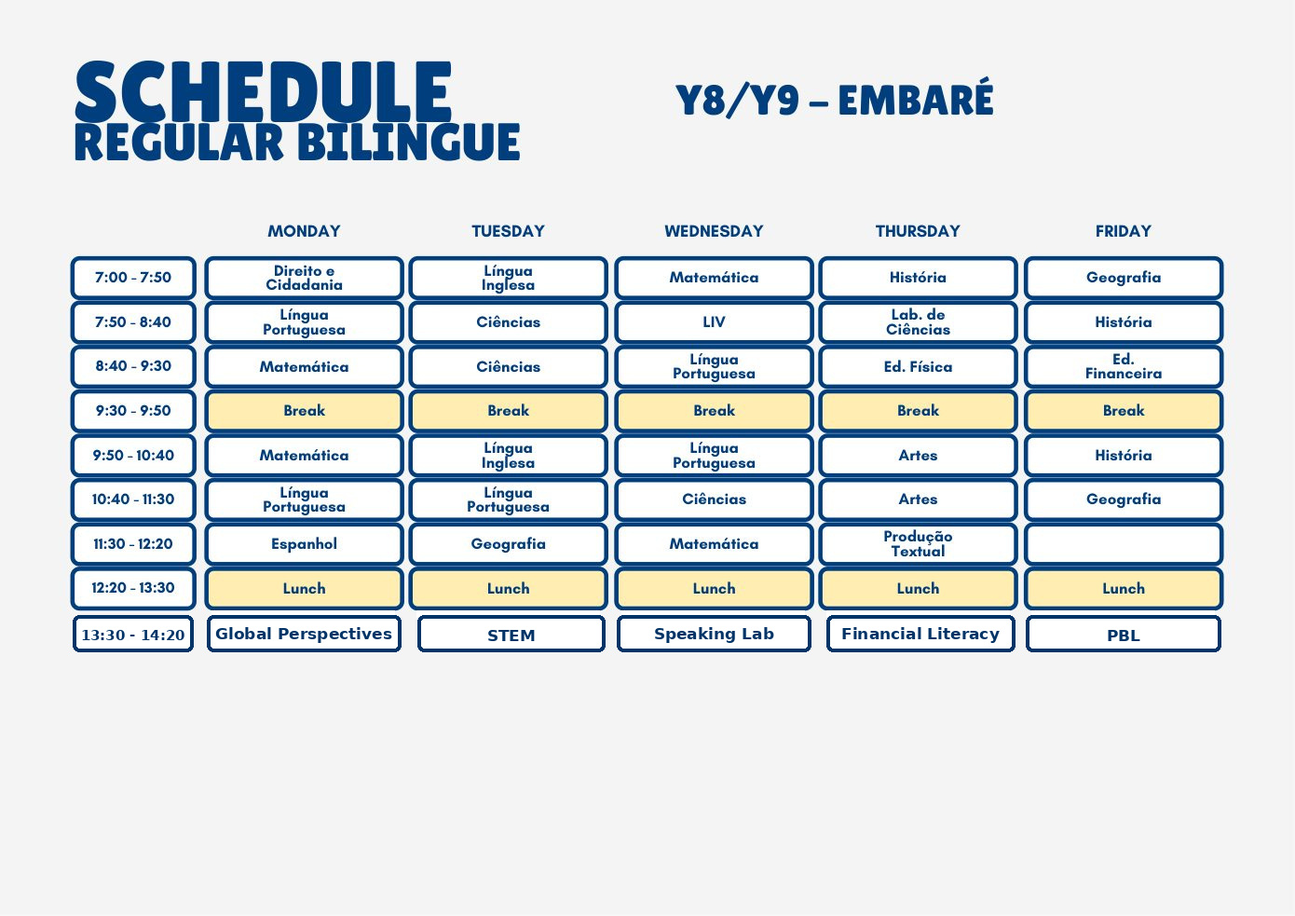
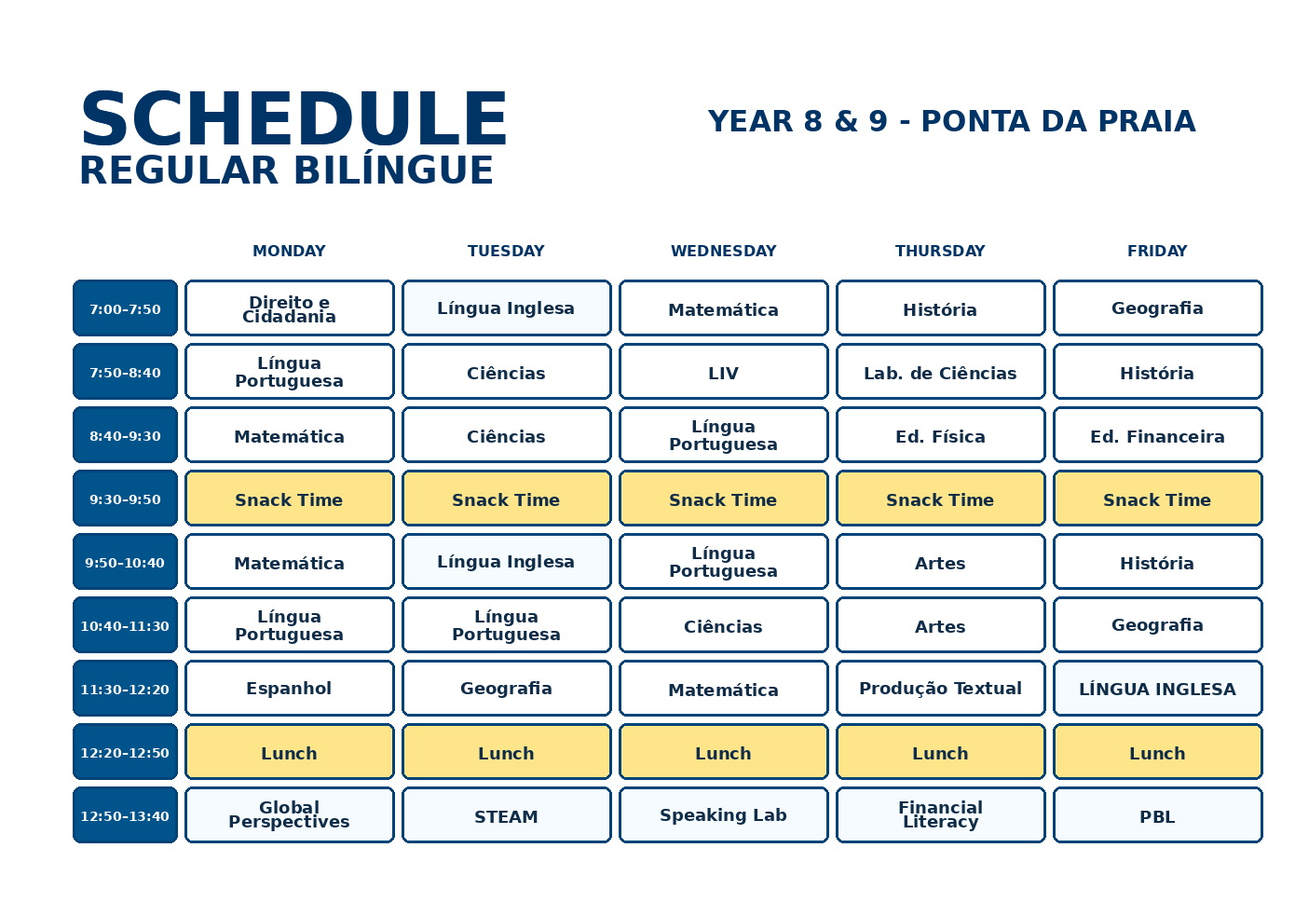
Atualiza miniaturas de grades do Embaré com base Ponta da Praia

diff --git a/embare-grades.html b/embare-grades.html
@@ -1,4 +1,5 @@
 <!DOCTYPE html>
+
 <html lang="pt-BR"><head><meta charset="utf-8"/><meta content="width=device-width, initial-scale=1" name="viewport"/><meta content="noindex,nofollow" name="robots"/><title>Grades Horárias Embaré · Portal</title><!-- versão 20260624-embare-grades-atualizadas-v2 --><link href="https://fonts.googleapis.com" rel="preconnect"/><link crossorigin="" href="https://fonts.gstatic.com" rel="preconnect"/><link href="https://fonts.googleapis.com/css2?family=Lexend:wght@300;400;500;600;700;800&amp;display=swap" rel="stylesheet"/><style>
 :root{--navy:#003366;--blue:#2ea3f2;--orange:#ff6900;--green:#0a5629;--ink:#26343b;--muted:#64717a;--line:#dfe9ef;--bg:#f4f7f8;--shadow:0 18px 50px rgba(0,51,102,.13)}*{box-sizing:border-box}html{scroll-behavior:smooth}body{margin:0;font-family:Lexend,Arial,sans-serif;background:var(--bg);color:var(--ink);line-height:1.55}a{color:var(--blue)}.wrap{max-width:1180px;margin:auto;padding:0 22px}.top{position:sticky;top:0;z-index:20;background:rgba(255,255,255,.92);backdrop-filter:blur(14px);border-bottom:1px solid var(--line)}.top .wrap{display:flex;justify-content:space-between;gap:12px;align-items:center;padding-top:11px;padding-bottom:11px}.brand{font-weight:900;color:var(--navy)}.actions{display:flex;gap:8px;flex-wrap:wrap}.btn{text-decoration:none;border:1px solid var(--line);background:white;color:var(--navy);border-radius:999px;padding:9px 13px;font-weight:900}.btn.primary{background:var(--orange);border-color:var(--orange);color:#fff}.hero{background:radial-gradient(circle at 74% 9%,rgba(64,174,103,.28),transparent 28%),linear-gradient(135deg,var(--navy),var(--green));color:white;padding:38px 0 24px}.eyebrow{font-size:12px;letter-spacing:.12em;text-transform:uppercase;font-weight:900;opacity:.82}h1{font-size:clamp(30px,4vw,48px);line-height:1.04;margin:8px 0}.hero p{max-width:720px;color:#edf7ff;font-size:15px}main{padding:18px 0 54px}.panel{background:white;border:1px solid var(--line);border-radius:28px;padding:24px;box-shadow:var(--shadow);margin-bottom:24px}.panel h2{color:var(--navy);font-size:30px;margin:4px 0 6px}.panel p{color:var(--muted);margin:0}.indexGrid{display:grid;grid-template-columns:repeat(auto-fit,minmax(260px,1fr));gap:14px;margin-top:18px}.indexCard{position:relative;overflow:hidden;display:block;text-decoration:none;background:#fff;border:1px solid var(--line);border-radius:24px;padding:20px;min-height:178px;box-shadow:0 10px 28px rgba(0,51,102,.08);transition:.18s ease transform,.18s ease box-shadow,.18s ease border-color}.indexCard:after{content:'';position:absolute;right:-34px;top:-34px;width:104px;height:104px;border-radius:999px;background:linear-gradient(135deg,rgba(46,163,242,.12),rgba(64,174,103,.14))}.indexCard:hover{transform:translateY(-3px);box-shadow:0 16px 34px rgba(0,51,102,.13);border-color:color-mix(in srgb,var(--accent) 40%,var(--line))}.cardEmoji{position:relative;z-index:1;width:52px;height:52px;display:flex;align-items:center;justify-content:center;border-radius:17px;background:linear-gradient(135deg,#eef8f1,#eaf4ff);font-size:28px;margin-bottom:14px;box-shadow:0 8px 20px rgba(0,51,102,.08)}.indexCard strong{position:relative;z-index:1;display:block;color:var(--navy);font-size:20px;margin-bottom:8px}.indexCard span:not(.cardEmoji){position:relative;z-index:1;display:block;color:var(--muted);font-size:14px}.indexCard em{position:relative;z-index:1;display:inline-flex;margin-top:12px;color:var(--accent);font-style:normal;font-weight:900;font-size:12px;text-transform:uppercase;letter-spacing:.06em}.segment{margin:34px 0 48px;scroll-margin-top:86px}.segmentHead{display:flex;gap:16px;align-items:flex-start;background:#fff;border:1px solid var(--line);border-radius:28px;padding:22px;box-shadow:var(--shadow);margin-bottom:18px}.segIcon{width:56px;height:56px;display:flex;align-items:center;justify-content:center;border-radius:18px;background:linear-gradient(135deg,#eef8f1,#eaf4ff);font-size:30px;box-shadow:0 8px 20px rgba(0,51,102,.08)}.segmentHead h2{margin:4px 0;color:var(--navy);font-size:28px}.segmentHead p{margin:0;color:var(--muted)}.segmentHead a{margin-left:auto;white-space:nowrap;text-decoration:none;font-weight:900;border:1px solid var(--line);border-radius:999px;padding:8px 12px;background:#f8fbff}.gradeSubhead{margin:18px 0 12px;color:var(--navy);font-size:20px;line-height:1.25}.gradeGrid{display:grid;grid-template-columns:repeat(auto-fit,minmax(330px,1fr));gap:18px}.gradeCard{background:#fff;border:1px solid var(--line);border-radius:24px;overflow:hidden;box-shadow:0 10px 28px rgba(0,51,102,.08);border-top:7px solid var(--accent)}.gradeInfo{padding:17px 18px 14px}.gradeInfo span{color:var(--accent);font-weight:900;text-transform:uppercase;font-size:12px;letter-spacing:.08em}.gradeInfo h3{margin:6px 0 4px;color:var(--navy);font-size:16px;line-height:1.25}.gradeInfo p{margin:0;color:var(--muted);font-size:13px}.gradeImageLink{display:block;background:#eef3f6;padding:10px;border-top:1px solid var(--line)}.gradeImageLink img{display:block;width:100%;height:auto;border-radius:14px;border:1px solid #d8e2e8;background:white}@media(max-width:760px){.top .wrap,.segmentHead{display:block}.actions{margin-top:8px}.hero{padding:34px 0 24px}.panel,.segmentHead{border-radius:22px;padding:18px}.segmentHead a{display:inline-flex;margin:14px 0 0}.gradeGrid{grid-template-columns:1fr}.indexGrid{grid-template-columns:1fr}}
-.gradeInfo{display:none!important}.gradeCard{border-top:0!important;padding:0!important;background:#fff!important}.gradeImageLink{border-top:0!important;padding:8px!important;background:#fff!important}.gradeImageLink img{border-radius:18px!important}.segment{margin:26px 0 34px!important}.segmentHead{margin-bottom:12px!important;padding:18px!important}.panel{margin-bottom:18px!important}.indexCard{min-height:132px!important;padding:16px!important}.cardEmoji{width:44px!important;height:44px!important;margin-bottom:10px!important}.indexCard strong{font-size:18px!important}.indexCard span:not(.cardEmoji){font-size:13px!important}.top{display:none!important}.hero{display:none!important}.topicBar{top:0!important}.segment{scroll-margin-top:24px!important}.contentCard{scroll-margin-top:24px!important}main{padding-top:18px!important}</style></head><body><header class="top"><div class="wrap"><div class="brand">GSP · Projeto Bilíngue 2027</div><div class="actions"><a class="btn" href="index.html#embare">Voltar ao portal</a></div></div></header><section class="hero"><div class="wrap"><span class="eyebrow">Portal Embaré</span><h1>Grades horárias</h1><p>Consulte por segmento. Clique para ampliar.</p></div></section><main class="wrap"><section class="panel" id="indice"><span class="eyebrow">Índice rápido</span><h2>Segmentos</h2><p>Escolha uma seção para consultar.</p><div class="indexGrid"><a class="indexCard" href="#infantil" style="--accent:#003366"><span class="cardEmoji">🌱</span><strong>Educação Infantil</strong><span>12 página(s)</span><em>Ver</em></a><a class="indexCard" href="#fund1" style="--accent:#2ea3f2"><span class="cardEmoji">📘</span><strong>Fundamental I — Year 1 ao Year 5 / 1º ao 5º ano</strong><span>3 página(s)</span><em>Ver</em></a><a class="indexCard" href="#fund2" style="--accent:#0a5629"><span class="cardEmoji">🧭</span><strong>Fundamental II — Year 6 ao Year 9 / 6º ao 9º ano</strong><span>6 página(s)</span><em>Ver</em></a></div></section><section class="segment" id="infantil"><div class="segmentHead"><div class="segIcon">🌱</div><div><span class="eyebrow">Embaré</span><h2>Educação Infantil</h2><p>Miniaturas das páginas da grade da Educação Infantil.</p></div><a href="#indice">Voltar ao índice</a></div><div class="gradeGrid"><article class="gradeCard" style="--accent:#003366"><div class="gradeInfo"><span>Página 1 · Grades horárias</span><h3>INTEGRAL BILÍNGUE</h3><p>Clique para ampliar.</p></div><a class="gradeImageLink" href="assets/embare-grades/embare-grade-p01.jpg?v=20260624-embare-grades-atualizadas-v2" rel="noopener" target="_blank"><img alt="Grade Embaré — INTEGRAL BILÍNGUE" loading="eager" src="assets/embare-grades/embare-grade-p01.jpg?v=20260624-embare-grades-atualizadas-v2"/></a></article><article class="gradeCard" style="--accent:#2ea3f2"><div class="gradeInfo"><span>Página 2 · Grades horárias</span><h3>SEMI-INTEGRAL BILÍNGUE</h3><p>Clique para ampliar.</p></div><a class="gradeImageLink" href="assets/embare-grades/embare-grade-p02.jpg?v=20260624-embare-grades-atualizadas-v2" rel="noopener" target="_blank"><img alt="Grade Embaré — SEMI-INTEGRAL BILÍNGUE" loading="eager" src="assets/embare-grades/embare-grade-p02.jpg?v=20260624-embare-grades-atualizadas-v2"/></a></article><article class="gradeCard" style="--accent:#0a5629"><div class="gradeInfo"><span>Página 3 · Grades horárias</span><h3>REGULAR BILÍNGUE</h3><p>Clique para ampliar.</p></div><a class="gradeImageLink" href="assets/embare-grades/embare-grade-p03.jpg?v=20260624-embare-grades-atualizadas-v2" rel="noopener" target="_blank"><img alt="Grade Embaré — REGULAR BILÍNGUE" loading="eager" src="assets/embare-grades/embare-grade-p03.jpg?v=20260624-embare-grades-atualizadas-v2"/></a></article><article class="gradeCard" style="--accent:#40ae67"><div class="gradeInfo"><span>Página 4 · Grades horárias</span><h3>INTEGRAL BILÍNGUE</h3><p>Clique para ampliar.</p></div><a class="gradeImageLink" href="assets/embare-grades/embare-grade-p04.jpg?v=20260624-embare-grades-atualizadas-v2" rel="noopener" target="_blank"><img alt="Grade Embaré — INTEGRAL BILÍNGUE" loading="eager" src="assets/embare-grades/embare-grade-p04.jpg?v=20260624-embare-grades-atualizadas-v2"/></a></article><article class="gradeCard" style="--accent:#ff6900"><div class="gradeInfo"><span>Página 5 · Grades horárias</span><h3>SEMI-INTEGRAL BILÍNGUE</h3><p>Clique para ampliar.</p></div><a class="gradeImageLink" href="assets/embare-grades/embare-grade-p05.jpg?v=20260624-embare-grades-atualizadas-v2" rel="noopener" target="_blank"><img alt="Grade Embaré — SEMI-INTEGRAL BILÍNGUE" loading="eager" src="assets/embare-grades/embare-grade-p05.jpg?v=20260624-embare-grades-atualizadas-v2"/></a></article><article class="gradeCard" style="--accent:#8a4fff"><div class="gradeInfo"><span>Página 6 · Grades horárias</span><h3>REGULAR BILÍNGUE</h3><p>Clique para ampliar.</p></div><a class="gradeImageLink" href="assets/embare-grades/embare-grade-p06.jpg?v=20260624-embare-grades-atualizadas-v2" rel="noopener" target="_blank"><img alt="Grade Embaré — REGULAR BILÍNGUE" loading="eager" src="assets/embare-grades/embare-grade-p06.jpg?v=20260624-embare-grades-atualizadas-v2"/></a></article><article class="gradeCard" style="--accent:#cc3d6b"><div class="gradeInfo"><span>Página 7 · Grades horárias</span><h3>INTEGRAL BILÍNGUE</h3><p>Clique para ampliar.</p></div><a class="gradeImageLink" href="assets/embare-grades/embare-grade-p07.jpg?v=20260624-embare-grades-atualizadas-v2" rel="noopener" target="_blank"><img alt="Grade Embaré — INTEGRAL BILÍNGUE" loading="eager" src="assets/embare-grades/embare-grade-p07.jpg?v=20260624-embare-grades-atualizadas-v2"/></a></article><article class="gradeCard" style="--accent:#1b7f83"><div class="gradeInfo"><span>Página 8 · Grades horárias</span><h3>SEMI-INTEGRAL BILÍNGUE</h3><p>Clique para ampliar.</p></div><a class="gradeImageLink" href="assets/embare-grades/embare-grade-p08.jpg?v=20260624-embare-grades-atualizadas-v2" rel="noopener" target="_blank"><img alt="Grade Embaré — SEMI-INTEGRAL BILÍNGUE" loading="eager" src="assets/embare-grades/embare-grade-p08.jpg?v=20260624-embare-grades-atualizadas-v2"/></a></article><article class="gradeCard" style="--accent:#b36b00"><div class="gradeInfo"><span>Página 9 · Grades horárias</span><h3>REGULAR BILÍNGUE</h3><p>Clique para ampliar.</p></div><a class="gradeImageLink" href="assets/embare-grades/embare-grade-p09.jpg?v=20260624-embare-grades-atualizadas-v2" rel="noopener" target="_blank"><img alt="Grade Embaré — REGULAR BILÍNGUE" loading="eager" src="assets/embare-grades/embare-grade-p09.jpg?v=20260624-embare-grades-atualizadas-v2"/></a></article><article class="gradeCard" style="--accent:#003366"><div class="gradeInfo"><span>Página 10 · Grades horárias</span><h3>INTEGRAL BILÍNGUE</h3><p>Clique para ampliar.</p></div><a class="gradeImageLink" href="assets/embare-grades/embare-grade-p10.jpg?v=20260624-embare-grades-atualizadas-v2" rel="noopener" target="_blank"><img alt="Grade Embaré — INTEGRAL BILÍNGUE" loading="eager" src="assets/embare-grades/embare-grade-p10.jpg?v=20260624-embare-grades-atualizadas-v2"/></a></article><article class="gradeCard" style="--accent:#2ea3f2"><div class="gradeInfo"><span>Página 11 · Grades horárias</span><h3>SEMI-INTEGRAL BILÍNGUE</h3><p>Clique para ampliar.</p></div><a class="gradeImageLink" href="assets/embare-grades/embare-grade-p11.jpg?v=20260624-embare-grades-atualizadas-v2" rel="noopener" target="_blank"><img alt="Grade Embaré — SEMI-INTEGRAL BILÍNGUE" loading="eager" src="assets/embare-grades/embare-grade-p11.jpg?v=20260624-embare-grades-atualizadas-v2"/></a></article><article class="gradeCard" style="--accent:#0a5629"><div class="gradeInfo"><span>Página 12 · Grades horárias</span><h3>REGULAR BILÍNGUE</h3><p>Clique para ampliar.</p></div><a class="gradeImageLink" href="assets/embare-grades/embare-grade-p12.jpg?v=20260624-embare-grades-atualizadas-v2" rel="noopener" target="_blank"><img alt="Grade Embaré — REGULAR BILÍNGUE" loading="eager" src="assets/embare-grades/embare-grade-p12.jpg?v=20260624-embare-grades-atualizadas-v2"/></a></article></div></section><section class="segment" id="fund1"><div class="segmentHead"><div class="segIcon">📘</div><div><span class="eyebrow">Embaré</span><h2>Fundamental I — Year 1 ao Year 5 / 1º ao 5º ano</h2><p>Miniaturas das páginas da grade do Fundamental I.</p></div><a href="#indice">Voltar ao índice</a></div><div class="gradeGrid"><article class="gradeCard" style="--accent:#2ea3f2"><div class="gradeInfo"><span>Página 13 · Grades horárias</span><h3>INTEGRAL BILÍNGUE</h3><p>Clique para ampliar.</p></div><a class="gradeImageLink" href="assets/embare-grades/embare-grade-p13.jpg?v=20260624-embare-grades-atualizadas-v2" rel="noopener" target="_blank"><img alt="Grade Embaré — Fundamental I — Year 1 ao Year 5 / 1º ao 5º ano — Página 13" loading="eager" src="assets/embare-grades/embare-grade-p13.jpg?v=20260624-embare-grades-atualizadas-v2"/></a></article><article class="gradeCard" style="--accent:#0a5629"><div class="gradeInfo"><span>Página 14 · Grades horárias</span><h3>REGULAR BILÍNGUE</h3><p>Clique para ampliar.</p></div><a class="gradeImageLink" href="assets/embare-grades/embare-grade-p14.jpg?v=20260624-embare-grades-atualizadas-v2" rel="noopener" target="_blank"><img alt="Grade Embaré — Fundamental I — Year 1 ao Year 5 / 1º ao 5º ano — Página 14" loading="eager" src="assets/embare-grades/embare-grade-p14.jpg?v=20260624-embare-grades-atualizadas-v2"/></a></article><article class="gradeCard" style="--accent:#40ae67"><div class="gradeInfo"><span>Página 15 · Grades horárias</span><h3>REGULAR</h3><p>Clique para ampliar.</p></div><a class="gradeImageLink" href="assets/embare-grades/embare-grade-p15.jpg?v=20260624-embare-grades-atualizadas-v2" rel="noopener" target="_blank"><img alt="Grade Embaré — Fundamental I — Year 1 ao Year 5 / 1º ao 5º ano — Página 15" loading="eager" src="assets/embare-grades/embare-grade-p15.jpg?v=20260624-embare-grades-atualizadas-v2"/></a></article></div></section><section class="segment" id="fund2"><div class="segmentHead"><div class="segIcon">🧭</div><div><span class="eyebrow">Embaré</span><h2>Fundamental II — Year 6 ao Year 9 / 6º ao 9º ano</h2><p>Miniaturas das páginas da grade do Fundamental II, organizadas por faixa de anos.</p></div><a href="#indice">Voltar ao índice</a></div><h3 class="gradeSubhead">Year 6 e Year 7 / 6º e 7º ano</h3><div class="gradeGrid"><article class="gradeCard" style="--accent:#ff6900"><div class="gradeInfo"><span>Página 16 · Grades horárias</span><h3>INTEGRAL BILÍNGUE</h3><p>Clique para ampliar.</p></div><a class="gradeImageLink" href="assets/embare-grades/embare-grade-p16.jpg?v=20260724-embare-f2-v1" rel="noopener" target="_blank"><img alt="Grade Embaré — Fundamental II — Year 6 e Year 7 / 6º e 7º ano — Página 16" loading="eager" src="assets/embare-grades/embare-grade-p16.jpg?v=20260724-embare-f2-v1"/></a></article><article class="gradeCard" style="--accent:#8a4fff"><div class="gradeInfo"><span>Página 17 · Grades horárias</span><h3>REGULAR BILÍNGUE</h3><p>Clique para ampliar.</p></div><a class="gradeImageLink" href="assets/embare-grades/embare-grade-p17.jpg?v=20260725-embare-f2-caixas-ultima-aula" rel="noopener" target="_blank"><img alt="Grade Embaré — Fundamental II — Year 6 e Year 7 / 6º e 7º ano — Página 17" loading="eager" src="assets/embare-grades/embare-grade-p17.jpg?v=20260725-embare-f2-caixas-ultima-aula"/></a></article><article class="gradeCard" style="--accent:#cc3d6b"><div class="gradeInfo"><span>Página 18 · Grades horárias</span><h3>REGULAR</h3><p>Clique para ampliar.</p></div><a class="gradeImageLink" href="assets/embare-grades/embare-grade-p18.jpg?v=20260624-embare-grades-atualizadas-v2" rel="noopener" target="_blank"><img alt="Grade Embaré — Fundamental II — Year 6 e Year 7 / 6º e 7º ano — Página 18" loading="eager" src="assets/embare-grades/embare-grade-p18.jpg?v=20260624-embare-grades-atualizadas-v2"/></a></article></div><h3 class="gradeSubhead">Year 8 e Year 9 / 8º e 9º ano</h3><div class="gradeGrid"><article class="gradeCard" style="--accent:#0a5629"><div class="gradeInfo"><span>Página 19 · Grades horárias</span><h3>HIGH SCHOOL PREP</h3><p>Clique para ampliar.</p></div><a class="gradeImageLink" href="assets/embare-grades/embare-grade-p19-high-school-prep-20260727.jpg?v=1" rel="noopener" target="_blank"><img alt="Grade Embaré — Fundamental II — Year 8 e Year 9 / 8º e 9º ano — Página 19" loading="eager" src="assets/embare-grades/embare-grade-p19-high-school-prep-20260727.jpg?v=1"/></a></article><article class="gradeCard" style="--accent:#1b7f83"><div class="gradeInfo"><span>Página 20 · Grades horárias</span><h3>REGULAR BILÍNGUE</h3><p>Clique para ampliar.</p></div><a class="gradeImageLink" href="assets/embare-grades/embare-grade-p20.jpg?v=20260725-embare-f2-caixas-ultima-aula" rel="noopener" target="_blank"><img alt="Grade Embaré — Fundamental II — Year 8 e Year 9 / 8º e 9º ano — Página 20" loading="eager" src="assets/embare-grades/embare-grade-p20.jpg?v=20260725-embare-f2-caixas-ultima-aula"/></a></article><article class="gradeCard" style="--accent:#b36b00"><div class="gradeInfo"><span>Página 21 · Grades horárias</span><h3>REGULAR</h3><p>Clique para ampliar.</p></div><a class="gradeImageLink" href="assets/embare-grades/embare-grade-p21.jpg?v=20260624-embare-grades-atualizadas-v2" rel="noopener" target="_blank"><img alt="Grade Embaré — Fundamental II — Year 8 e Year 9 / 8º e 9º ano — Página 21" loading="eager" src="assets/embare-grades/embare-grade-p21.jpg?v=20260624-embare-grades-atualizadas-v2"/></a></article></div></section></main></body></html>
+.gradeInfo{display:none!important}.gradeCard{border-top:0!important;padding:0!important;background:#fff!important}.gradeImageLink{border-top:0!important;padding:8px!important;background:#fff!important}.gradeImageLink img{border-radius:18px!important}.segment{margin:26px 0 34px!important}.segmentHead{margin-bottom:12px!important;padding:18px!important}.panel{margin-bottom:18px!important}.indexCard{min-height:132px!important;padding:16px!important}.cardEmoji{width:44px!important;height:44px!important;margin-bottom:10px!important}.indexCard strong{font-size:18px!important}.indexCard span:not(.cardEmoji){font-size:13px!important}.top{display:none!important}.hero{display:none!important}.topicBar{top:0!important}.segment{scroll-margin-top:24px!important}.contentCard{scroll-margin-top:24px!important}main{padding-top:18px!important}</style></head><body><header class="top"><div class="wrap"><div class="brand">GSP · Projeto Bilíngue 2027</div><div class="actions"><a class="btn" href="index.html#embare">Voltar ao portal</a></div></div></header><section class="hero"><div class="wrap"><span class="eyebrow">Portal Embaré</span><h1>Grades horárias</h1><p>Consulte por segmento. Clique para ampliar.</p></div></section><main class="wrap"><section class="panel" id="indice"><span class="eyebrow">Índice rápido</span><h2>Segmentos</h2><p>Escolha uma seção para consultar.</p><div class="indexGrid"><a class="indexCard" href="#infantil" style="--accent:#003366"><span class="cardEmoji">🌱</span><strong>Educação Infantil</strong><span>12 página(s)</span><em>Ver</em></a><a class="indexCard" href="#fund1" style="--accent:#2ea3f2"><span class="cardEmoji">📘</span><strong>Fundamental I — Year 1 ao Year 5 / 1º ao 5º ano</strong><span>3 página(s)</span><em>Ver</em></a><a class="indexCard" href="#fund2" style="--accent:#0a5629"><span class="cardEmoji">🧭</span><strong>Fundamental II — Year 6 ao Year 9 / 6º ao 9º ano</strong><span>6 página(s)</span><em>Ver</em></a></div></section><section class="segment" id="infantil"><div class="segmentHead"><div class="segIcon">🌱</div><div><span class="eyebrow">Embaré</span><h2>Educação Infantil</h2><p>Miniaturas das páginas da grade da Educação Infantil.</p></div><a href="#indice">Voltar ao índice</a></div><div class="gradeGrid"><article class="gradeCard" style="--accent:#003366"><div class="gradeInfo"><span>Página 1 · Grades horárias</span><h3>INTEGRAL BILÍNGUE</h3><p>Clique para ampliar.</p></div><a class="gradeImageLink" href="assets/embare-grades/embare-grade-p01.jpg?v=20260624-embare-grades-atualizadas-v2" rel="noopener" target="_blank"><img alt="Grade Embaré — INTEGRAL BILÍNGUE" loading="eager" src="assets/embare-grades/embare-grade-p01.jpg?v=20260827-ponta-replica-infantil-f1-f2-p01"/></a></article><article class="gradeCard" style="--accent:#2ea3f2"><div class="gradeInfo"><span>Página 2 · Grades horárias</span><h3>SEMI-INTEGRAL BILÍNGUE</h3><p>Clique para ampliar.</p></div><a class="gradeImageLink" href="assets/embare-grades/embare-grade-p02.jpg?v=20260624-embare-grades-atualizadas-v2" rel="noopener" target="_blank"><img alt="Grade Embaré — SEMI-INTEGRAL BILÍNGUE" loading="eager" src="assets/embare-grades/embare-grade-p02.jpg?v=20260827-ponta-replica-infantil-f1-f2-p02"/></a></article><article class="gradeCard" style="--accent:#0a5629"><div class="gradeInfo"><span>Página 3 · Grades horárias</span><h3>REGULAR BILÍNGUE</h3><p>Clique para ampliar.</p></div><a class="gradeImageLink" href="assets/embare-grades/embare-grade-p03.jpg?v=20260624-embare-grades-atualizadas-v2" rel="noopener" target="_blank"><img alt="Grade Embaré — REGULAR BILÍNGUE" loading="eager" src="assets/embare-grades/embare-grade-p03.jpg?v=20260827-ponta-replica-infantil-f1-f2-p03"/></a></article><article class="gradeCard" style="--accent:#40ae67"><div class="gradeInfo"><span>Página 4 · Grades horárias</span><h3>INTEGRAL BILÍNGUE</h3><p>Clique para ampliar.</p></div><a class="gradeImageLink" href="assets/embare-grades/embare-grade-p04.jpg?v=20260624-embare-grades-atualizadas-v2" rel="noopener" target="_blank"><img alt="Grade Embaré — INTEGRAL BILÍNGUE" loading="eager" src="assets/embare-grades/embare-grade-p04.jpg?v=20260827-ponta-replica-infantil-f1-f2-p04"/></a></article><article class="gradeCard" style="--accent:#ff6900"><div class="gradeInfo"><span>Página 5 · Grades horárias</span><h3>SEMI-INTEGRAL BILÍNGUE</h3><p>Clique para ampliar.</p></div><a class="gradeImageLink" href="assets/embare-grades/embare-grade-p05.jpg?v=20260624-embare-grades-atualizadas-v2" rel="noopener" target="_blank"><img alt="Grade Embaré — SEMI-INTEGRAL BILÍNGUE" loading="eager" src="assets/embare-grades/embare-grade-p05.jpg?v=20260827-ponta-replica-infantil-f1-f2-p05"/></a></article><article class="gradeCard" style="--accent:#8a4fff"><div class="gradeInfo"><span>Página 6 · Grades horárias</span><h3>REGULAR BILÍNGUE</h3><p>Clique para ampliar.</p></div><a class="gradeImageLink" href="assets/embare-grades/embare-grade-p06.jpg?v=20260624-embare-grades-atualizadas-v2" rel="noopener" target="_blank"><img alt="Grade Embaré — REGULAR BILÍNGUE" loading="eager" src="assets/embare-grades/embare-grade-p06.jpg?v=20260827-ponta-replica-infantil-f1-f2-p06"/></a></article><article class="gradeCard" style="--accent:#cc3d6b"><div class="gradeInfo"><span>Página 7 · Grades horárias</span><h3>INTEGRAL BILÍNGUE</h3><p>Clique para ampliar.</p></div><a class="gradeImageLink" href="assets/embare-grades/embare-grade-p07.jpg?v=20260624-embare-grades-atualizadas-v2" rel="noopener" target="_blank"><img alt="Grade Embaré — INTEGRAL BILÍNGUE" loading="eager" src="assets/embare-grades/embare-grade-p07.jpg?v=20260827-ponta-replica-infantil-f1-f2-p07"/></a></article><article class="gradeCard" style="--accent:#1b7f83"><div class="gradeInfo"><span>Página 8 · Grades horárias</span><h3>SEMI-INTEGRAL BILÍNGUE</h3><p>Clique para ampliar.</p></div><a class="gradeImageLink" href="assets/embare-grades/embare-grade-p08.jpg?v=20260624-embare-grades-atualizadas-v2" rel="noopener" target="_blank"><img alt="Grade Embaré — SEMI-INTEGRAL BILÍNGUE" loading="eager" src="assets/embare-grades/embare-grade-p08.jpg?v=20260827-ponta-replica-infantil-f1-f2-p08"/></a></article><article class="gradeCard" style="--accent:#b36b00"><div class="gradeInfo"><span>Página 9 · Grades horárias</span><h3>REGULAR BILÍNGUE</h3><p>Clique para ampliar.</p></div><a class="gradeImageLink" href="assets/embare-grades/embare-grade-p09.jpg?v=20260624-embare-grades-atualizadas-v2" rel="noopener" target="_blank"><img alt="Grade Embaré — REGULAR BILÍNGUE" loading="eager" src="assets/embare-grades/embare-grade-p09.jpg?v=20260827-ponta-replica-infantil-f1-f2-p09"/></a></article><article class="gradeCard" style="--accent:#003366"><div class="gradeInfo"><span>Página 10 · Grades horárias</span><h3>INTEGRAL BILÍNGUE</h3><p>Clique para ampliar.</p></div><a class="gradeImageLink" href="assets/embare-grades/embare-grade-p10.jpg?v=20260624-embare-grades-atualizadas-v2" rel="noopener" target="_blank"><img alt="Grade Embaré — INTEGRAL BILÍNGUE" loading="eager" src="assets/embare-grades/embare-grade-p10.jpg?v=20260827-ponta-replica-infantil-f1-f2-p10"/></a></article><article class="gradeCard" style="--accent:#2ea3f2"><div class="gradeInfo"><span>Página 11 · Grades horárias</span><h3>SEMI-INTEGRAL BILÍNGUE</h3><p>Clique para ampliar.</p></div><a class="gradeImageLink" href="assets/embare-grades/embare-grade-p11.jpg?v=20260624-embare-grades-atualizadas-v2" rel="noopener" target="_blank"><img alt="Grade Embaré — SEMI-INTEGRAL BILÍNGUE" loading="eager" src="assets/embare-grades/embare-grade-p11.jpg?v=20260827-ponta-replica-infantil-f1-f2-p11"/></a></article><article class="gradeCard" style="--accent:#0a5629"><div class="gradeInfo"><span>Página 12 · Grades horárias</span><h3>REGULAR BILÍNGUE</h3><p>Clique para ampliar.</p></div><a class="gradeImageLink" href="assets/embare-grades/embare-grade-p12.jpg?v=20260624-embare-grades-atualizadas-v2" rel="noopener" target="_blank"><img alt="Grade Embaré — REGULAR BILÍNGUE" loading="eager" src="assets/embare-grades/embare-grade-p12.jpg?v=20260827-ponta-replica-infantil-f1-f2-p12"/></a></article></div></section><section class="segment" id="fund1"><div class="segmentHead"><div class="segIcon">📘</div><div><span class="eyebrow">Embaré</span><h2>Fundamental I — Year 1 ao Year 5 / 1º ao 5º ano</h2><p>Miniaturas das páginas da grade do Fundamental I.</p></div><a href="#indice">Voltar ao índice</a></div><div class="gradeGrid"><article class="gradeCard" style="--accent:#2ea3f2"><div class="gradeInfo"><span>Página 13 · Grades horárias</span><h3>INTEGRAL BILÍNGUE</h3><p>Clique para ampliar.</p></div><a class="gradeImageLink" href="assets/embare-grades/embare-grade-p13.jpg?v=20260624-embare-grades-atualizadas-v2" rel="noopener" target="_blank"><img alt="Grade Embaré — Fundamental I — Year 1 ao Year 5 / 1º ao 5º ano — Página 13" loading="eager" src="assets/embare-grades/embare-grade-p13.jpg?v=20260827-ponta-replica-infantil-f1-f2-p13"/></a></article><article class="gradeCard" style="--accent:#0a5629"><div class="gradeInfo"><span>Página 14 · Grades horárias</span><h3>REGULAR BILÍNGUE</h3><p>Clique para ampliar.</p></div><a class="gradeImageLink" href="assets/embare-grades/embare-grade-p14.jpg?v=20260624-embare-grades-atualizadas-v2" rel="noopener" target="_blank"><img alt="Grade Embaré — Fundamental I — Year 1 ao Year 5 / 1º ao 5º ano — Página 14" loading="eager" src="assets/embare-grades/embare-grade-p14.jpg?v=20260827-ponta-replica-infantil-f1-f2-p14"/></a></article><article class="gradeCard" style="--accent:#40ae67"><div class="gradeInfo"><span>Página 15 · Grades horárias</span><h3>REGULAR</h3><p>Clique para ampliar.</p></div><a class="gradeImageLink" href="assets/embare-grades/embare-grade-p15.jpg?v=20260624-embare-grades-atualizadas-v2" rel="noopener" target="_blank"><img alt="Grade Embaré — Fundamental I — Year 1 ao Year 5 / 1º ao 5º ano — Página 15" loading="eager" src="assets/embare-grades/embare-grade-p15.jpg?v=20260827-ponta-replica-infantil-f1-f2-p15"/></a></article></div></section><section class="segment" id="fund2"><div class="segmentHead"><div class="segIcon">🧭</div><div><span class="eyebrow">Embaré</span><h2>Fundamental II — Year 6 ao Year 9 / 6º ao 9º ano</h2><p>Miniaturas das páginas da grade do Fundamental II, organizadas por faixa de anos.</p></div><a href="#indice">Voltar ao índice</a></div><h3 class="gradeSubhead">Year 6 e Year 7 / 6º e 7º ano</h3><div class="gradeGrid"><article class="gradeCard" style="--accent:#ff6900"><div class="gradeInfo"><span>Página 16 · Grades horárias</span><h3>INTEGRAL BILÍNGUE</h3><p>Clique para ampliar.</p></div><a class="gradeImageLink" href="assets/embare-grades/embare-grade-p16.jpg?v=20260724-embare-f2-v1" rel="noopener" target="_blank"><img alt="Grade Embaré — Fundamental II — Year 6 e Year 7 / 6º e 7º ano — Página 16" loading="eager" src="assets/embare-grades/embare-grade-p16.jpg?v=20260827-ponta-replica-infantil-f1-f2-p16"/></a></article><article class="gradeCard" style="--accent:#8a4fff"><div class="gradeInfo"><span>Página 17 · Grades horárias</span><h3>REGULAR BILÍNGUE</h3><p>Clique para ampliar.</p></div><a class="gradeImageLink" href="assets/embare-grades/embare-grade-p17.jpg?v=20260725-embare-f2-caixas-ultima-aula" rel="noopener" target="_blank"><img alt="Grade Embaré — Fundamental II — Year 6 e Year 7 / 6º e 7º ano — Página 17" loading="eager" src="assets/embare-grades/embare-grade-p17.jpg?v=20260827-ponta-replica-infantil-f1-f2-p17"/></a></article><article class="gradeCard" style="--accent:#cc3d6b"><div class="gradeInfo"><span>Página 18 · Grades horárias</span><h3>REGULAR</h3><p>Clique para ampliar.</p></div><a class="gradeImageLink" href="assets/embare-grades/embare-grade-p18.jpg?v=20260624-embare-grades-atualizadas-v2" rel="noopener" target="_blank"><img alt="Grade Embaré — Fundamental II — Year 6 e Year 7 / 6º e 7º ano — Página 18" loading="eager" src="assets/embare-grades/embare-grade-p18.jpg?v=20260827-ponta-replica-infantil-f1-f2-p18"/></a></article></div><h3 class="gradeSubhead">Year 8 e Year 9 / 8º e 9º ano</h3><div class="gradeGrid"><article class="gradeCard" style="--accent:#0a5629"><div class="gradeInfo"><span>Página 19 · Grades horárias</span><h3>HIGH SCHOOL PREP</h3><p>Clique para ampliar.</p></div><a class="gradeImageLink" href="assets/embare-grades/embare-grade-p19-high-school-prep-20260727.jpg?v=1" rel="noopener" target="_blank"><img alt="Grade Embaré — Fundamental II — Year 8 e Year 9 / 8º e 9º ano — Página 19" loading="eager" src="assets/embare-grades/embare-grade-p19-high-school-prep-20260727.jpg?v=20260827-ponta-replica-infantil-f1-f2-p19"/></a></article><article class="gradeCard" style="--accent:#1b7f83"><div class="gradeInfo"><span>Página 20 · Grades horárias</span><h3>REGULAR BILÍNGUE</h3><p>Clique para ampliar.</p></div><a class="gradeImageLink" href="assets/embare-grades/embare-grade-p20.jpg?v=20260725-embare-f2-caixas-ultima-aula" rel="noopener" target="_blank"><img alt="Grade Embaré — Fundamental II — Year 8 e Year 9 / 8º e 9º ano — Página 20" loading="eager" src="assets/embare-grades/embare-grade-p20.jpg?v=20260827-ponta-replica-infantil-f1-f2-p20"/></a></article><article class="gradeCard" style="--accent:#b36b00"><div class="gradeInfo"><span>Página 21 · Grades horárias</span><h3>REGULAR</h3><p>Clique para ampliar.</p></div><a class="gradeImageLink" href="assets/embare-grades/embare-grade-p21.jpg?v=20260624-embare-grades-atualizadas-v2" rel="noopener" target="_blank"><img alt="Grade Embaré — Fundamental II — Year 8 e Year 9 / 8º e 9º ano — Página 21" loading="eager" src="assets/embare-grades/embare-grade-p21.jpg?v=20260827-ponta-replica-infantil-f1-f2-p21"/></a></article></div></section></main></body></html>
